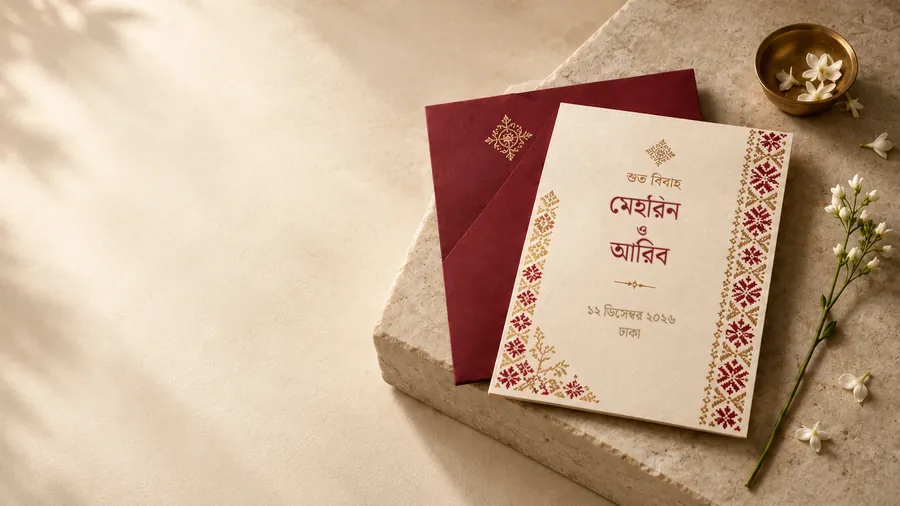
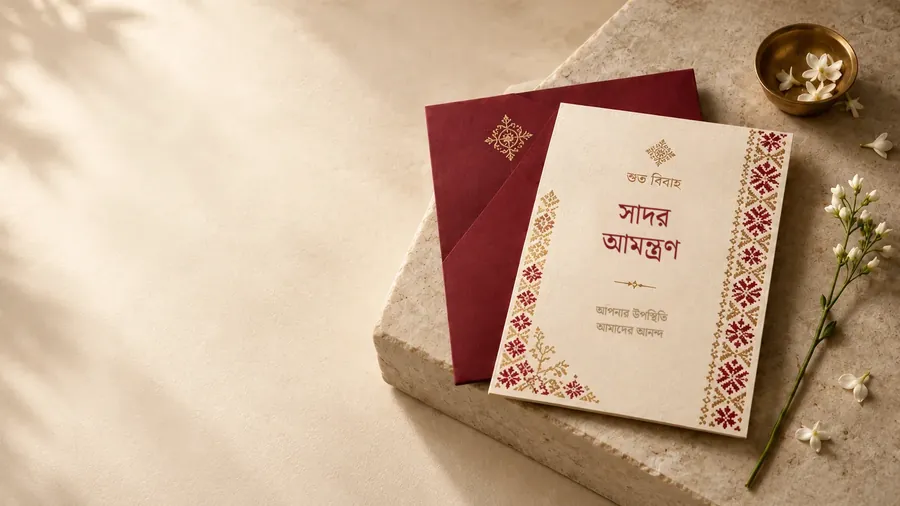
Show a nameless invitation card in a living hero
The hero card now reads "সাদর আমন্ত্রণ · আপনার উপস্থিতি আমাদের আনন্দ"
instead of a couple's names (the named card is kept as
invitation-card-named.webp for other uses). The photo drifts slowly,
tuberose and marigold petals fall across it and gold dust twinkles; all
of it stops for reduced motion.

Changed region(s): [[0.6533, 0.3854, 0.7778, 0.5336], [0.6533, 0.5929, 0.7467, 0.6818]]

diff --git a/web/src/components/storefront.tsx b/web/src/components/storefront.tsx
@@ -392,6 +392,49 @@ export function Pricing({
   );
 }
 
+// Tuberose petals and gold dust drifting over the hero photo. Fixed positions keep server and
+// client markup identical; the motion is CSS only and is removed for reduced motion.
+const petals = [
+  [34, 11, 15, 0, 26], [48, 9, 19, 4, -32], [61, 13, 17, 9, 18], [72, 8, 21, 2, -20],
+  [83, 12, 16, 6, 30], [92, 10, 20, 12, -24], [55, 7, 23, 14, 22], [40, 9, 18, 17, -18],
+  [66, 11, 22, 19, 28], [88, 8, 17, 21, -30], [77, 14, 24, 7, 16], [96, 9, 19, 15, -14],
+] as const;
+const dust = [
+  [52, 22, 0], [64, 38, 1.4], [74, 18, 2.8], [86, 44, 0.7], [58, 62, 2.1],
+  [80, 70, 3.5], [92, 28, 1.8], [69, 54, 4.2], [46, 40, 3], [95, 60, 0.4],
+] as const;
+function HeroPetals() {
+  return (
+    <div className={s.petals} aria-hidden="true">
+      {petals.map(([left, size, duration, delay, sway], i) => (
+        <svg
+          key={`p${i}`}
+          className={i % 4 === 2 ? `${s.petal} ${s.petalMarigold}` : s.petal}
+          viewBox="0 0 12 18"
+          style={
+            {
+              left: `${left}%`,
+              width: size,
+              animationDuration: `${duration}s`,
+              animationDelay: `-${delay}s`,
+              '--sway': `${sway}px`,
+            } as React.CSSProperties
+          }
+        >
+          <path d="M6 0C10 5 10 13 6 18C2 13 2 5 6 0Z" />
+        </svg>
+      ))}
+      {dust.map(([left, top, delay], i) => (
+        <span
+          key={`d${i}`}
+          className={s.dust}
+          style={{ left: `${left}%`, top: `${top}%`, animationDelay: `${delay}s` }}
+        />
+      ))}
+    </div>
+  );
+}
+
 export function StorefrontHome({ paymentPromise }: { paymentPromise?: PaymentReviewPromise }) {
   const { locale } = useProductLocale();
   const t = (bn: string, en: string) => (locale === 'bn' ? bn : en);
@@ -424,12 +467,16 @@ export function StorefrontHome({ paymentPromise }: { paymentPromise?: PaymentRev
             src="/brand/storefront-hero-match.webp"
             srcSet="/brand/storefront-hero-match-900.webp 900w, /brand/storefront-hero-match.webp 1600w"
             sizes="100vw"
-            alt={t('জামদানি নকশার ডিজিটাল আমন্ত্রণের ছবি', 'A Jamdani-inspired digital invitation')}
+            alt={t(
+              'জামদানি নকশার বিয়ের আমন্ত্রণপত্র, পাশে খাম ও ফুল',
+              'A Jamdani-bordered wedding invitation card with its envelope and flowers',
+            )}
             width="1600"
             height="900"
             fetchPriority="high"
           />
         </figure>
+        <HeroPetals />
       </section>
       <ul className={s.values}>
         <li>

diff --git a/web/src/components/storefront.module.css b/web/src/components/storefront.module.css
@@ -1466,7 +1466,9 @@
     height: 100%;
     aspect-ratio: auto;
     object-position: right center;
-    animation: heroZoom 2.4s var(--ease) both;
+    animation:
+      heroZoom 2.4s var(--ease) both,
+      heroDrift 26s ease-in-out 2.4s infinite alternate;
     scale: 1.04;
     translate: calc(var(--px, 0) * -14px) calc(var(--py, 0) * -9px);
     transition: translate 0.5s var(--ease);
@@ -1641,7 +1643,9 @@
     aspect-ratio: auto;
     object-fit: cover;
     object-position: 76% 100%;
-    animation: heroZoom 2.4s var(--ease) both;
+    animation:
+      heroZoom 2.4s var(--ease) both,
+      heroDrift 26s ease-in-out 2.4s infinite alternate;
   }
   .heroArt::after {
     content: '';
@@ -1656,5 +1660,82 @@
         rgb(244 235 222 / 0) 50%
       ),
       linear-gradient(0deg, rgb(43 25 20 / 0.32) 0%, rgb(43 25 20 / 0) 22%);
+  }
+}
+
+/* ---------- Hero motion: slow drift, falling petals, twinkling gold dust ---------- */
+@keyframes heroDrift {
+  from {
+    transform: scale(1);
+  }
+  to {
+    transform: scale(1.07) translate3d(-1.2%, -0.8%, 0);
+  }
+}
+.petals {
+  position: absolute;
+  z-index: 0;
+  inset: 0;
+  overflow: hidden;
+  pointer-events: none;
+}
+.petal {
+  position: absolute;
+  top: -6%;
+  height: auto;
+  fill: #fffaf0;
+  filter: drop-shadow(0 2px 3px rgb(60 30 20 / 0.25));
+  opacity: 0;
+  animation: petalFall linear infinite;
+}
+.petalMarigold {
+  fill: #e8a23a;
+}
+@keyframes petalFall {
+  0% {
+    opacity: 0;
+    transform: translate3d(0, 0, 0) rotate(0deg);
+  }
+  10% {
+    opacity: 0.9;
+  }
+  50% {
+    transform: translate3d(var(--sway), 55vh, 0) rotate(180deg);
+  }
+  90% {
+    opacity: 0.85;
+  }
+  100% {
+    opacity: 0;
+    transform: translate3d(calc(var(--sway) * -0.5), 110vh, 0) rotate(340deg);
+  }
+}
+.dust {
+  position: absolute;
+  width: 4px;
+  height: 4px;
+  border-radius: 50%;
+  background: radial-gradient(circle, #f6dc9a 0%, #c9a050 60%, transparent 70%);
+  box-shadow: 0 0 8px 2px rgb(233 196 106 / 0.55);
+  opacity: 0;
+  animation: twinkle 4.8s ease-in-out infinite;
+}
+@keyframes twinkle {
+  0%,
+  100% {
+    opacity: 0;
+    transform: scale(0.5);
+  }
+  50% {
+    opacity: 0.9;
+    transform: scale(1);
+  }
+}
+@media (prefers-reduced-motion: reduce) {
+  .petals {
+    display: none;
+  }
+  .heroArt img {
+    animation: none !important;
   }
 }
